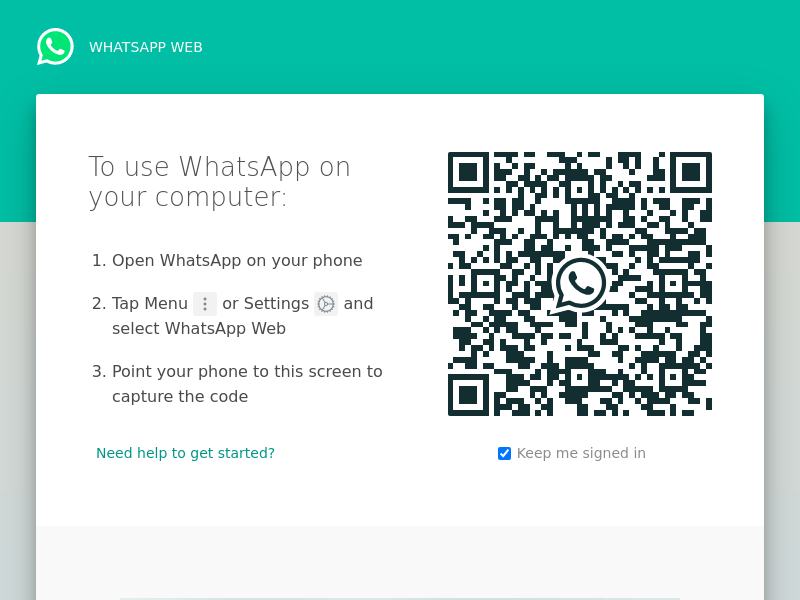
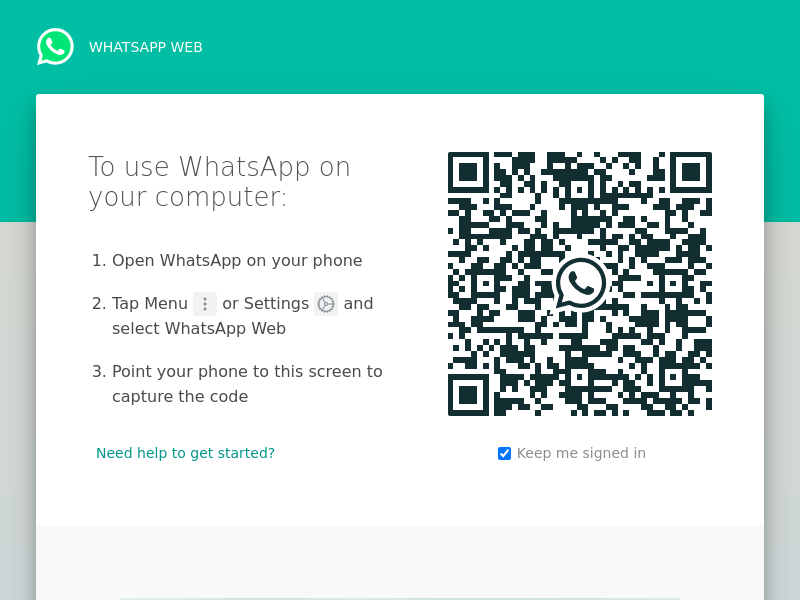
🏉💶 Checkpoint ./view/index.html:7762666/259

diff --git a/view/index.html b/view/index.html
@@ -25,10 +25,7 @@
                 .then(res => res.json())
                 .then(data => setItems((data && data.items) || []));
             }
-            else {
-              fetch()
-            }
-        )}
+        })
       }, []);
 
       if (isConnected)
@@ -42,7 +39,7 @@
           </div>
         `;
       else
-        return html`<${Disconnect}/>`;
+        return html`<${Disconnect}/><img src='/qr'/>`;
     }
 
     const Chat = ({chat}) =>
@@ -66,7 +63,7 @@
     
     const Disconnect = () =>
       html`
-        <div>No Phone Connected</div>
+        <div>Scan QR using Whatsapp on your Phone</div>
       `;
 
     render(html`<${App}/>`, document.body);
